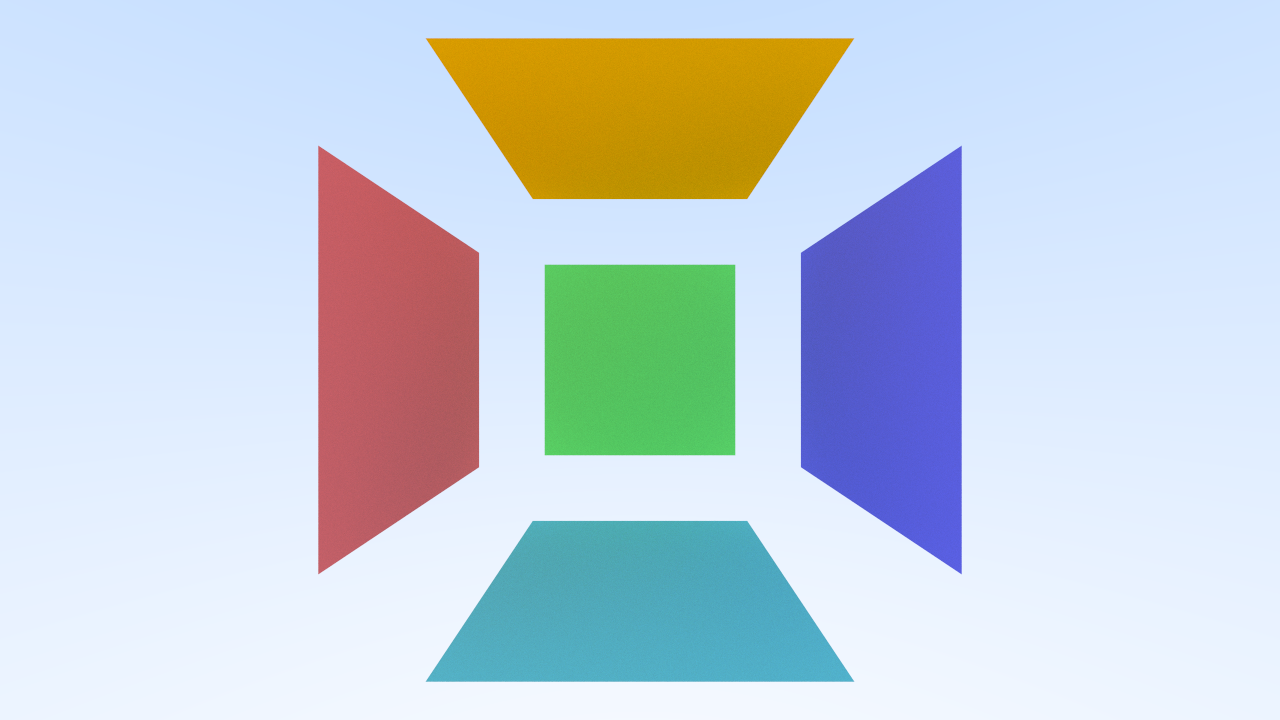
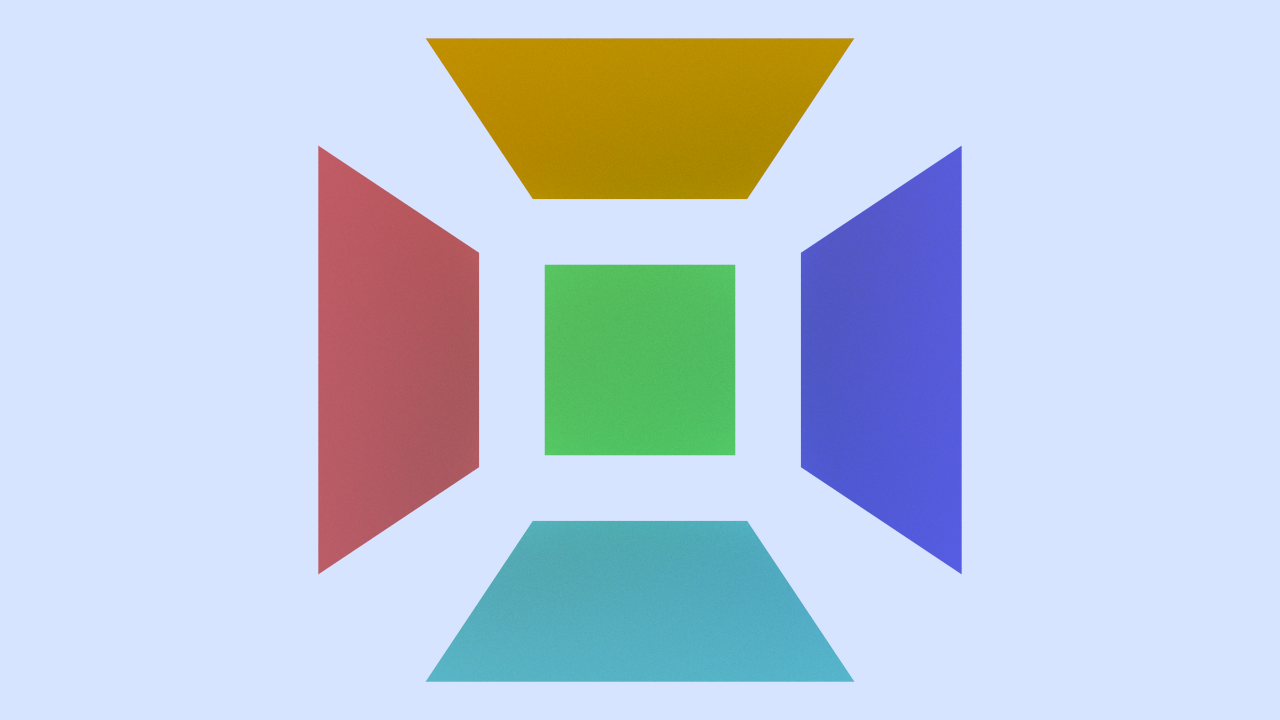
feat: constant camera background color

Changed region(s): [[0.125, 0.8556, 0.875, 1.0], [0.3438, 0.0306, 0.6562, 0.275]]

diff --git a/src/common/camera.h b/src/common/camera.h
@@ -20,6 +20,7 @@ public:
     int image_width = 100;      // Rendered image width in pixel count
     int samples_per_pixel = 10; // Count of random samples for each pixel
     int max_depth = 10;         // Maximum number of ray bounces into scene
+    Vec3d background;           // Scene background color
 
     double vfov = 90;                 // Vertical field of view in degrees
     Vec3d lookfrom = {0.0, 0.0, 0.0}; // Point camera is looking from
@@ -173,17 +174,23 @@ private:
 
         HitRecord hit_rec;
 
-        if (hittable->hit(ray, Interval {0.001, infinity}, hit_rec)) {
-            Ray scattered;
-            Vec3d attenuation;
-            if (hit_rec.mat->scatter(ray, hit_rec, attenuation, scattered)) {
-                return attenuation.array() * ray_color(scattered, depth - 1, hittable).array();
-            }
-            return {0.0, 0.0, 0.0};
+        // If the ray hits nothing, return the background color
+        if (!hittable->hit(ray, Interval {0.001, infinity}, hit_rec)) {
+            return background;
         }
 
-        const Vec3d unit_direction = ray.direction().normalized();
-        const double a = 0.5 * (unit_direction.y() + 1.0);
-        return (1.0 - a) * Vec3d {1.0, 1.0, 1.0} + a * Vec3d {0.5, 0.7, 1.0};
+        Vec3d attenuation;
+        Ray scattered;
+
+        const Vec3d color_from_emission = hit_rec.mat->emitted(hit_rec.u, hit_rec.v, hit_rec.p);
+
+        if (!hit_rec.mat->scatter(ray, hit_rec, attenuation, scattered)) {
+            return color_from_emission;
+        }
+
+        const Vec3d color_from_scatter =
+            attenuation.array() * ray_color(scattered, depth - 1, hittable).array();
+
+        return color_from_emission + color_from_scatter;
     }
 };

diff --git a/utils/use_core.cpp b/utils/use_core.cpp
@@ -73,6 +73,7 @@ void render_bouncing_spheres(const std::string& output_image_format) {
     cam.image_width = 1280;
     cam.samples_per_pixel = 500;
     cam.max_depth = 50;
+    cam.background = {0.70, 0.80, 1.00};
 
     cam.vfov = 20.0;
     cam.lookfrom = {13.0, 2.0, 3.0};
@@ -113,6 +114,7 @@ void render_checkered_spheres(const std::string& output_image_format) {
     cam.image_width = 1280;
     cam.samples_per_pixel = 500;
     cam.max_depth = 50;
+    cam.background = {0.70, 0.80, 1.00};
 
     cam.vfov = 20.0;
     cam.lookfrom = {13.0, 2.0, 3.0};
@@ -148,6 +150,7 @@ void render_earth_sphere(const std::string& output_image_format) {
     cam.image_width = 1280;
     cam.samples_per_pixel = 500;
     cam.max_depth = 50;
+    cam.background = {0.70, 0.80, 1.00};
 
     cam.vfov = 20.0;
     cam.lookfrom = {-3.0, 6.0, -10.0};
@@ -181,6 +184,7 @@ void render_perlin_spheres(const std::string& output_image_format) {
     cam.image_width = 1280;
     cam.samples_per_pixel = 500;
     cam.max_depth = 50;
+    cam.background = {0.70, 0.80, 1.00};
 
     cam.vfov = 20.0;
     cam.lookfrom = {13.0, 2.0, 3.0};
@@ -228,6 +232,7 @@ void render_quads(const std::string& output_image_format) {
     cam.image_width = 1280;
     cam.samples_per_pixel = 500;
     cam.max_depth = 50;
+    cam.background = {0.70, 0.80, 1.00};
 
     cam.vfov = 80.0;
     cam.lookfrom = {0.0, 0.0, 9.0};
